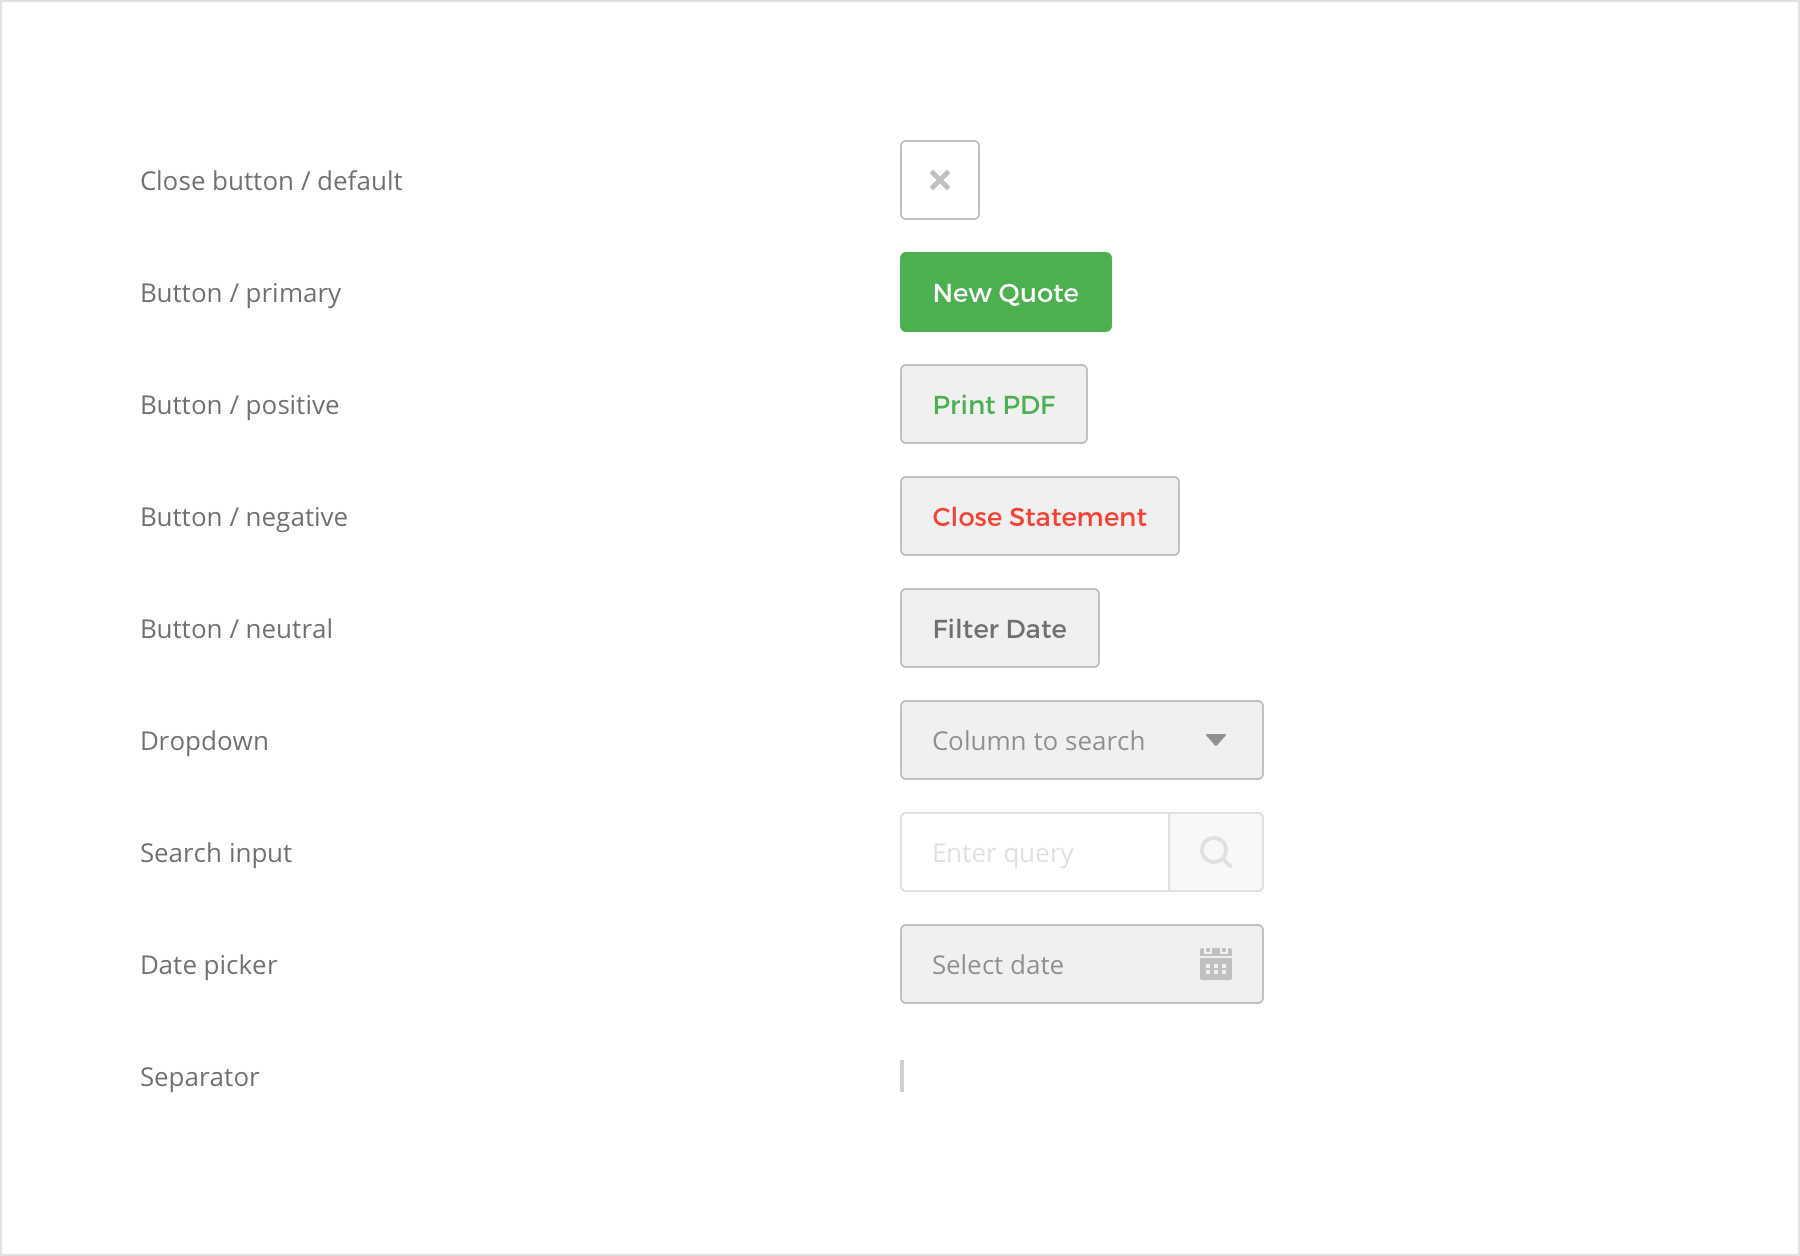
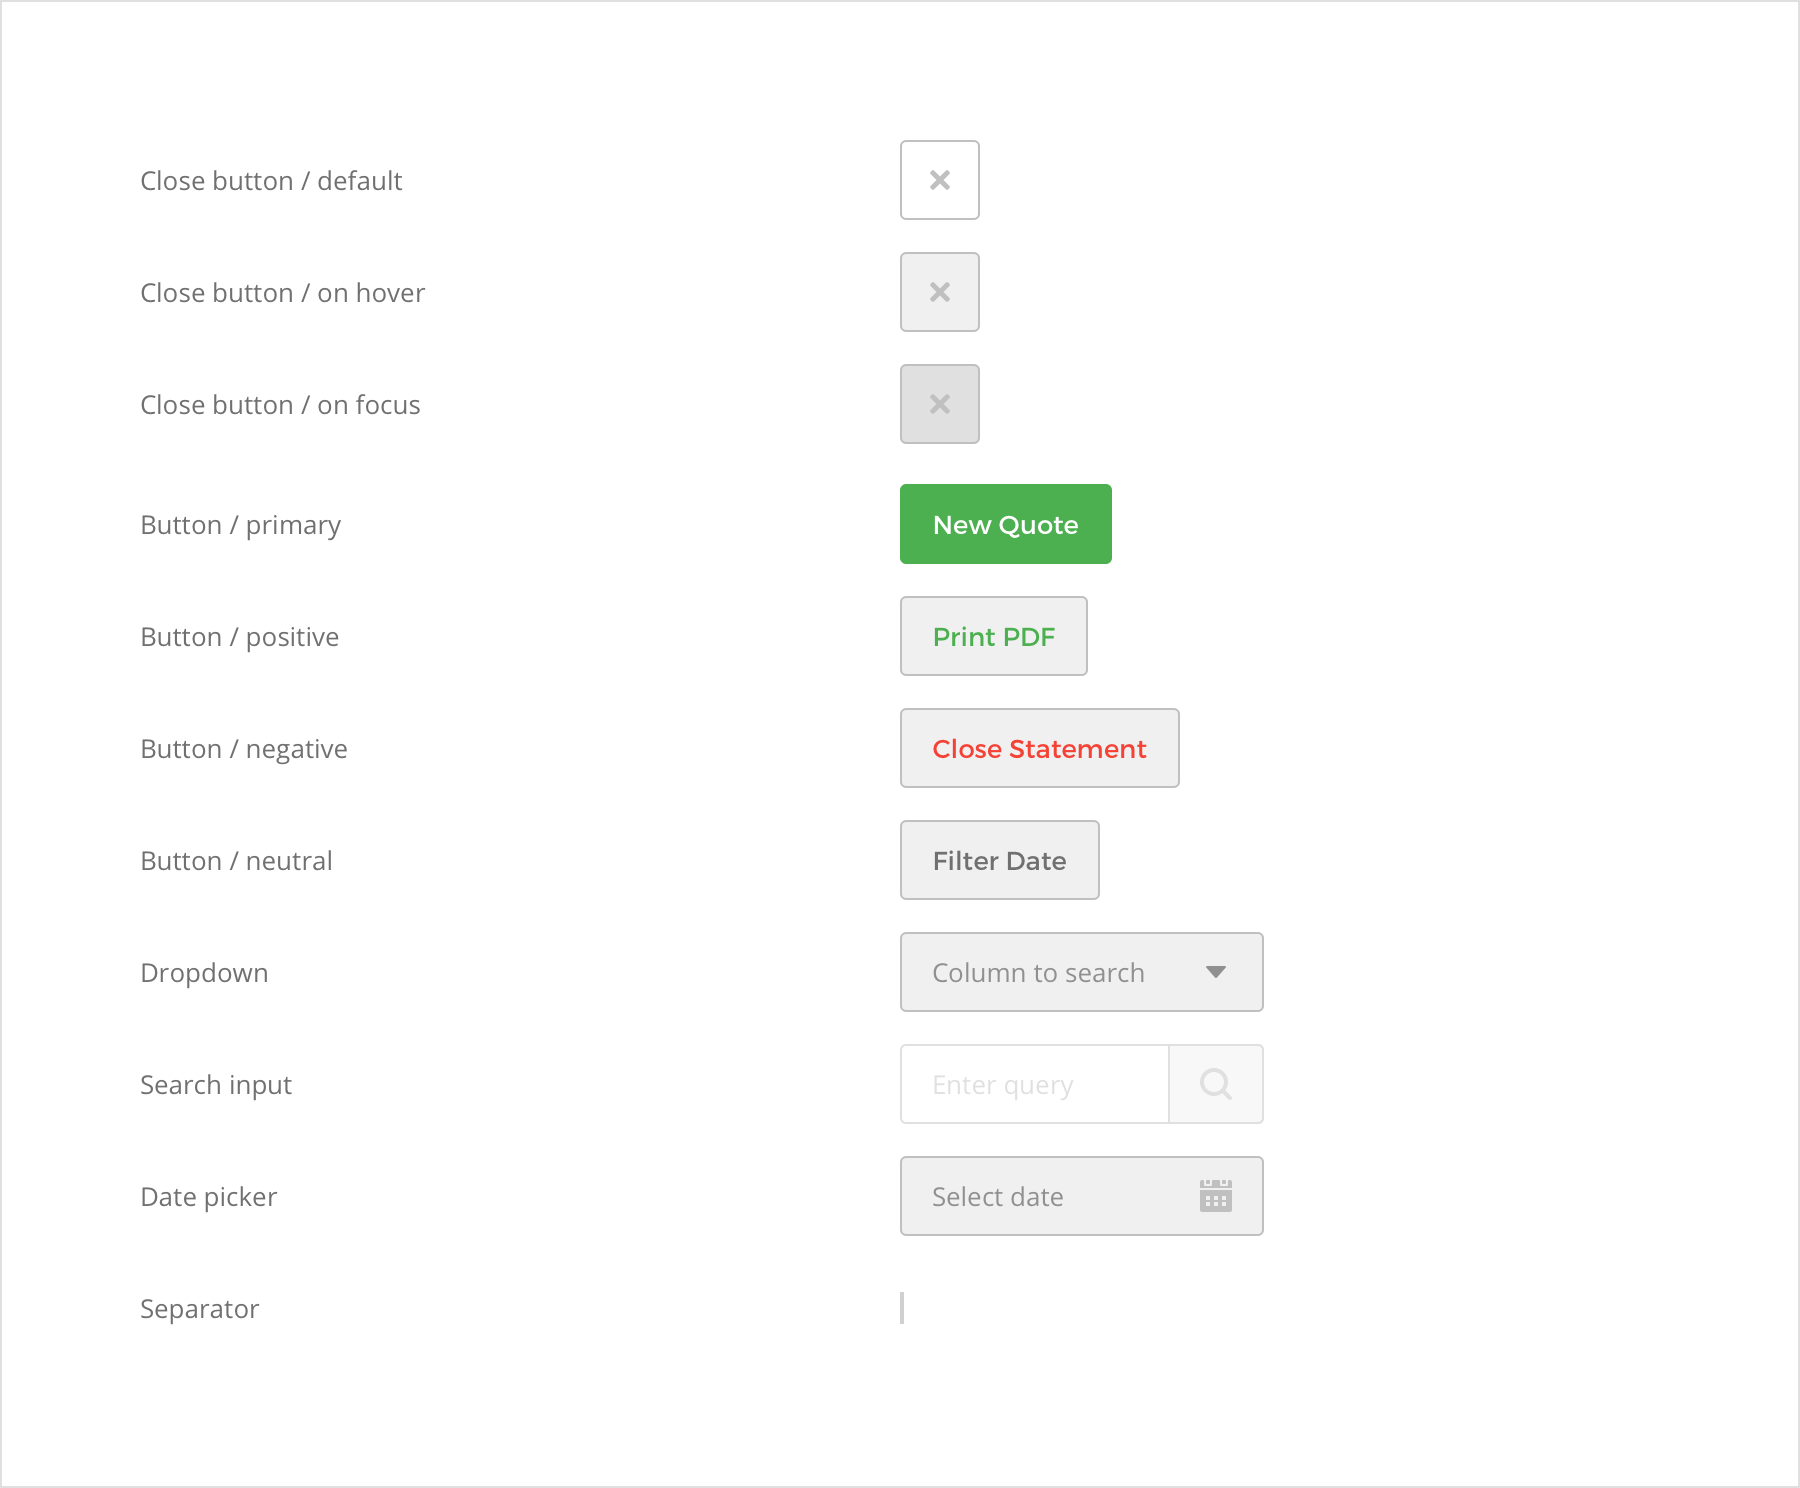
Updates headers.md
Auto commit by GitBook Editor

diff --git a/headers.md b/headers.md
@@ -103,6 +103,20 @@ color: $B200;
 ![](/assets/organisms/headers-header-1-spacing-right.png)![](/assets/organisms/headers-header-1-atoms-right.png)
 
 ```
+/* Close button / default */
+width: 40px;
+height: 40px;
+background: $S100;
+border: 1px solid $S500;
+border-radius: 3px;
+color: $S500;
+
+/* Close button / on hover */
+background: $S200;
+
+/* Close button / on focus */
+background: $S300;
+
 /* Button / primary */
 /* Use 40 height size  */
 
